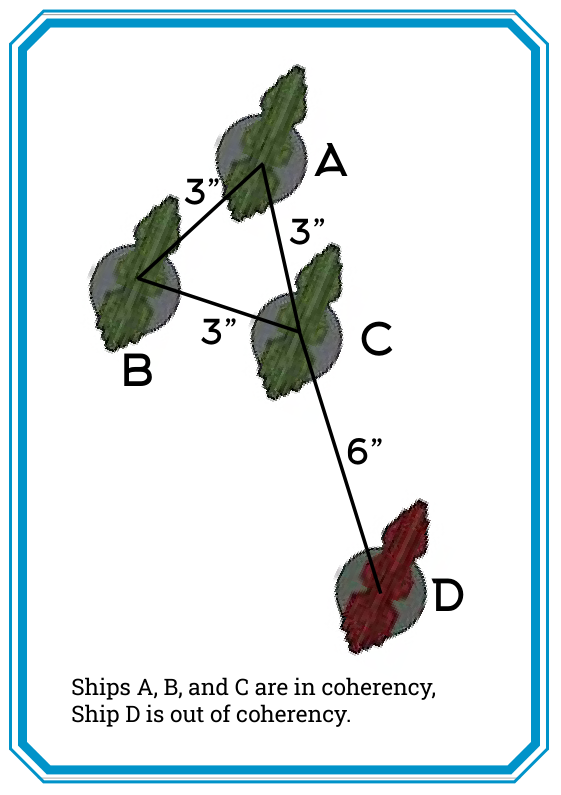
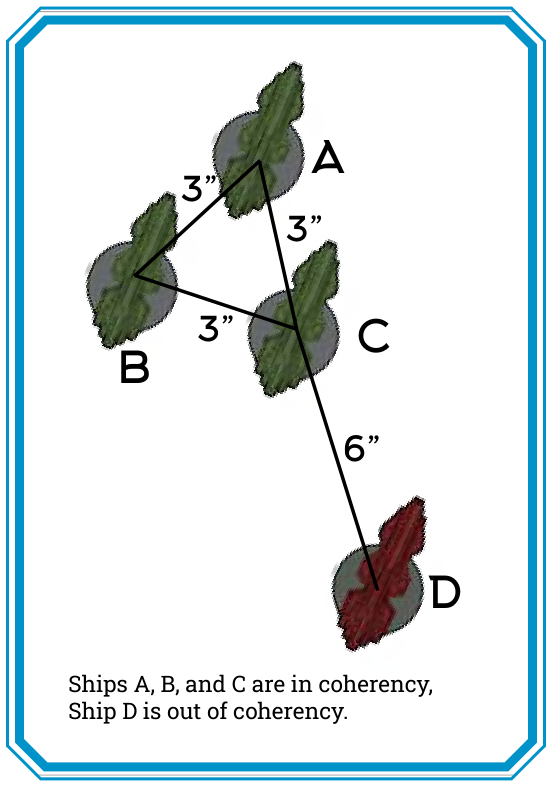
How to Play: rulebook-style tables, example callouts, bigger crisp diagrams
- Tables get the book's look: a solid black header bar with white all-caps
  Roboto Slab column names over cream cells, stat columns centred (both apps).
- Worked examples ("E.g. ...") render as a navy-ruled italic aside, set apart
  from the rules around them.
- Diagrams are quite a bit larger, and re-extracted crisp: every figure now
  renders from the page at 3x (Base Contact and the Explosion chain were low-res
  embedded images), shown up to the column width.

diff --git a/css/app.css b/css/app.css
@@ -8083,6 +8083,9 @@ h5.rules-h, h6.rules-h { font-size: 18px; font-family: var(--font-body); font-we
 
 .rules-p { margin: 0 0 var(--sp-md); font-size: 18px; line-height: 1.65; color: var(--ink-soft); }
 .rules-p strong { color: var(--ink); font-weight: 700; }
+/* A worked example, set apart as an aside: navy-ruled, tinted, italic. */
+.rules-eg { font-style: italic; font-size: 16px; color: var(--ink-muted); background: var(--paper, rgba(27,58,92,.04)); border-left: 3px solid var(--navy); padding: var(--sp-md) var(--sp-lg); border-radius: 0 var(--radius-md, 8px) var(--radius-md, 8px) 0; }
+.rules-eg strong { font-style: normal; }
 
 /* Cross-reference links: dense, so kept quiet — a dotted underline in the ink
    colour, going solid navy on hover. */
@@ -8096,15 +8099,22 @@ h5.rules-h, h6.rules-h { font-size: 18px; font-family: var(--font-body); font-we
 .rules-caption { margin: 0 0 var(--sp-md); font-size: var(--text-sm); color: var(--ink-muted); font-style: italic; }
 
 .rules-table-wrap { overflow-x: auto; margin: 0 0 var(--sp-md); }
-.rules-table { border-collapse: collapse; width: 100%; font-size: var(--text-sm); }
-.rules-table th, .rules-table td { border: 1px solid var(--line, rgba(120,110,95,.3)); padding: 6px 10px; text-align: left; vertical-align: top; color: var(--ink-soft); }
-.rules-table th { background: var(--paper); color: var(--ink); font-family: var(--font-display); font-weight: 700; }
+/* Tables in the rulebook's own idiom: a solid black header bar with white,
+   all-caps Roboto Slab column names, over cream cells split by hairlines. */
+.rules-table { border-collapse: collapse; width: 100%; font-size: var(--text-sm); border: 1px solid var(--ink, #1c1a17); }
+.rules-table th, .rules-table td { border: 1px solid var(--line, rgba(120,110,95,.3)); padding: 7px 10px; text-align: left; vertical-align: top; color: var(--ink-soft); }
+.rules-table th { background: var(--ink, #1c1a17); color: #fff; font-family: var(--font-display); font-weight: 700; text-transform: uppercase; letter-spacing: .05em; font-size: .82em; text-align: center; border-color: var(--ink, #1c1a17); }
+.rules-table th:first-child { text-align: left; }
+/* Short stat columns read centred like the book; the wide first name column and
+   any prose Special column stay left. */
+.rules-table td:not(:first-child):not(:last-child) { text-align: center; }
+.rules-table tbody tr:nth-child(even) td { background: var(--paper, rgba(0,0,0,.02)); }
 
 .rules-cardfig { margin: 0 0 var(--sp-lg); }
-.rules-cardfig img { display: block; max-width: 440px; width: 100%; border-radius: var(--radius-md, 8px); border: 1px solid var(--line, rgba(120,110,95,.3)); }
+.rules-cardfig img { display: block; max-width: 100%; width: 100%; border-radius: var(--radius-md, 8px); border: 1px solid var(--line, rgba(120,110,95,.3)); }
 
 .rules-fig { margin: var(--sp-md) 0 var(--sp-lg); }
-.rules-fig img { display: block; max-width: min(360px, 100%); max-height: 560px; width: auto; height: auto; border-radius: var(--radius-md, 8px); border: 1px solid var(--line, rgba(120,110,95,.3)); background: #fff; }
+.rules-fig img { display: block; max-width: 100%; max-height: 760px; width: auto; height: auto; border-radius: var(--radius-md, 8px); border: 1px solid var(--line, rgba(120,110,95,.3)); background: #fff; }
 
 /* A token strip shown inline with the rule that calls on it (in addition to the
    full Tokens reference at the end). Set off from the prose with a faint rule. */

diff --git a/mobile/css/mobile.css b/mobile/css/mobile.css
@@ -3230,16 +3230,21 @@ h5.rules-h, h6.rules-h { font-size: 16px; font-family: var(--font-body, inherit)
 
 .rules-p { margin: 0 0 var(--sp-s); font-size: 16px; line-height: 1.6; color: var(--fg2); }
 .rules-p strong { color: var(--fg1); font-weight: 700; }
+.rules-eg { font-style: italic; font-size: 15px; color: var(--fg3); background: var(--navy-wash, rgba(27,58,92,.05)); border-left: 3px solid var(--navy); padding: var(--sp-s) var(--sp-m); border-radius: 0 var(--radius-md) var(--radius-md) 0; }
+.rules-eg strong { font-style: normal; }
 .rules-ul { margin: 0 0 var(--sp-s); padding-left: 1.2em; }
 .rules-ul li { margin: 0 0 5px; font-size: 16px; line-height: 1.55; color: var(--fg2); }
 
 .rules-table-wrap { overflow-x: auto; margin: 0 0 var(--sp-s); -webkit-overflow-scrolling: touch; }
-.rules-table { border-collapse: collapse; width: 100%; font-size: 13px; }
-.rules-table th, .rules-table td { border: 1px solid var(--stroke1); padding: 5px 7px; text-align: left; vertical-align: top; color: var(--fg2); }
-.rules-table th { background: var(--navy-wash, rgba(27,58,92,.06)); color: var(--fg1); font-family: var(--font-display); font-weight: 700; }
+.rules-table { border-collapse: collapse; width: 100%; font-size: 13px; border: 1px solid var(--fg1, #1c1a17); }
+.rules-table th, .rules-table td { border: 1px solid var(--stroke1); padding: 6px 7px; text-align: left; vertical-align: top; color: var(--fg2); }
+.rules-table th { background: var(--fg1, #1c1a17); color: #fff; font-family: var(--font-display); font-weight: 700; text-transform: uppercase; letter-spacing: .05em; font-size: .82em; text-align: center; border-color: var(--fg1, #1c1a17); }
+.rules-table th:first-child { text-align: left; }
+.rules-table td:not(:first-child):not(:last-child) { text-align: center; }
+.rules-table tbody tr:nth-child(even) td { background: var(--navy-wash, rgba(27,58,92,.04)); }
 
 .rules-fig { margin: var(--sp-s) 0 var(--sp-m); }
-.rules-fig img { display: block; max-width: 100%; max-height: 440px; width: auto; height: auto; border-radius: var(--radius-md); border: 1px solid var(--stroke1); background: #fff; }
+.rules-fig img { display: block; max-width: 100%; max-height: 640px; width: auto; height: auto; border-radius: var(--radius-md); border: 1px solid var(--stroke1); background: #fff; }
 .rules-cardfig { margin: 0 0 var(--sp-m); }
 .rules-cardfig img { display: block; max-width: 100%; border-radius: var(--radius-md); border: 1px solid var(--stroke1); }
 

diff --git a/js/app.js b/js/app.js
@@ -1220,7 +1220,11 @@ let activeGroupId = null;
       // table column heads; on their own in the text they are noise, and the
       // diagram that carries them is placed by wikiFigure. Dropped.
       if (it.kind === 'caption') { i++; continue; }
-      html += `<p class="rules-p">${wikiRuns(it.runs)}</p>`; i++;
+      // A worked example ("E.g. …" / "For example …") is set apart as a callout
+      // so it reads as an illustration, not another rule.
+      const plain = (it.runs || []).map(r => r.t).join('');
+      const isEg = /^\s*(e\.g\.|for example\b)/i.test(plain);
+      html += `<p class="rules-p${isEg ? ' rules-eg' : ''}">${wikiRuns(it.runs)}</p>`; i++;
     }
     return html;
   }

diff --git a/mobile/js/mobile.js b/mobile/js/mobile.js
@@ -861,7 +861,9 @@
       if (it.kind === 'li') { const lis = []; while (i < items.length && items[i].kind === 'li') { lis.push(`<li>${mRuns(items[i].runs)}</li>`); i++; } html += `<ul class="rules-ul">${lis.join('')}</ul>`; continue; }
       if (it.kind === 'table') { html += mTable(it); i++; continue; }
       if (it.kind === 'caption') { i++; continue; }
-      html += `<p class="rules-p">${mRuns(it.runs)}</p>`; i++;
+      const plain = (it.runs || []).map(r => r.t).join('');
+      const isEg = /^\s*(e\.g\.|for example\b)/i.test(plain);
+      html += `<p class="rules-p${isEg ? ' rules-eg' : ''}">${mRuns(it.runs)}</p>`; i++;
     }
     return html;
   }

diff --git a/sw.js b/sw.js
@@ -3,7 +3,7 @@
 // populating the cache as resources are fetched.
 // Bump this on every deploy so existing clients purge the old cache on activate
 // (the app updates frequently — stale assets must not survive a new build).
-const CACHE = 'dfc-cache-v427';
+const CACHE = 'dfc-cache-v428';
 // Same-origin code/data that MUST be fresh when online. Network-first alone is
 // not enough: fetch() still consults the browser HTTP cache, so a client can
 // keep running a stale app.js for as long as GitHub Pages' cache headers allow.

diff --git a/scripts/extract-rules-figures.py b/scripts/extract-rules-figures.py
@@ -39,16 +39,20 @@ OUT = os.path.join(ROOT, "assets", "rules")
 
 # name, section id, kind, spec.
 #   raster: spec = xref;  vector: spec = (page, x0, y0, x1, y1) in PDF points.
+# Everything is rendered from the page at high scale (crisp at large display
+# sizes), clipped to the diagram's own rect. The raster diagrams (Base Contact,
+# Explosion) are single embedded images, so their rect is the image placement;
+# the vector diagrams are clipped to their blue frame.
 FIGURES = [
-    ("fig-base-contact", "2.3.1.1", "raster", 134),
+    ("fig-base-contact", "2.3.1.1", "vector", (8,  22,  17, 395, 291)),
     ("fig-coherency",    "3.2.1.2", "vector", (10, 214, 211, 395, 470)),
     ("fig-arcs",         "3.4",     "vector", (11, 214,  17, 395, 221)),
     ("fig-move",         "7.2",     "vector", (16,  22, 192, 203, 573)),
-    ("fig-explosion",    "7.3.7",   "raster", 344),
+    ("fig-explosion",    "7.3.7",   "vector", (19,  22, 402, 395, 574)),
 ]
 
-PAD = 3          # points of margin around a vector frame
-SCALE = 3        # render scale for vector crops
+PAD = 2          # points of margin around a diagram rect
+SCALE = 3        # render scale (3x -> crisp when shown large)
 
 
 def save_raster(doc, xref, path):
